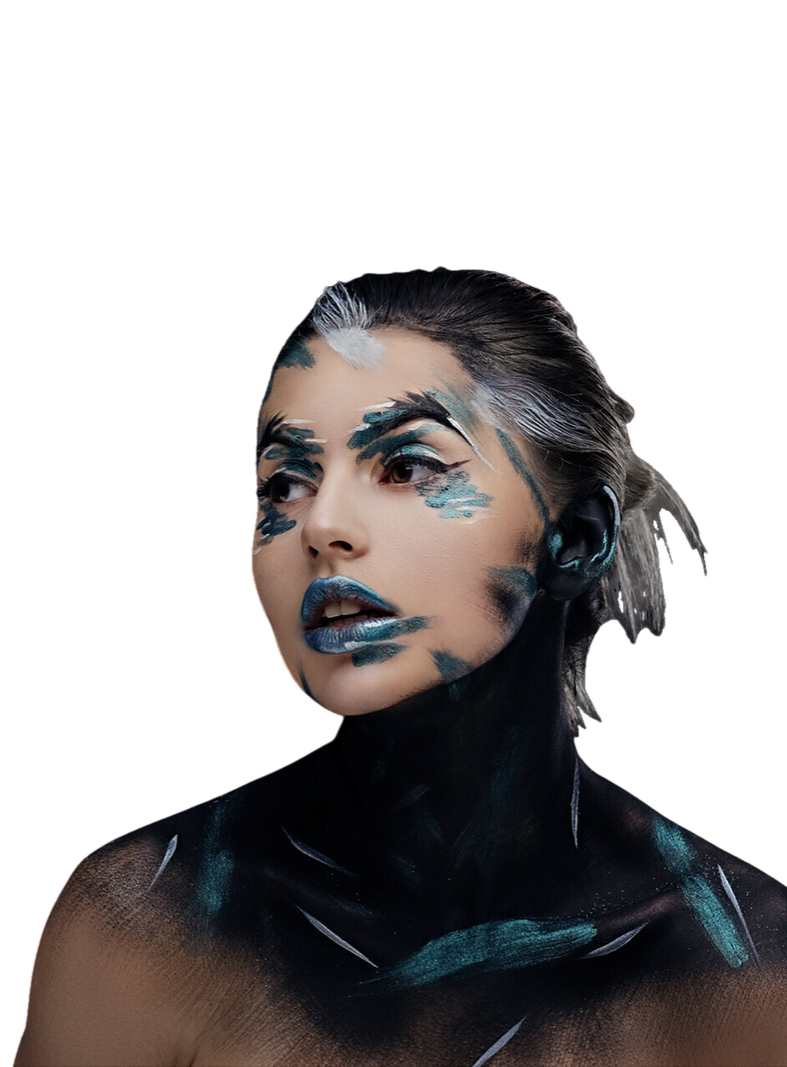
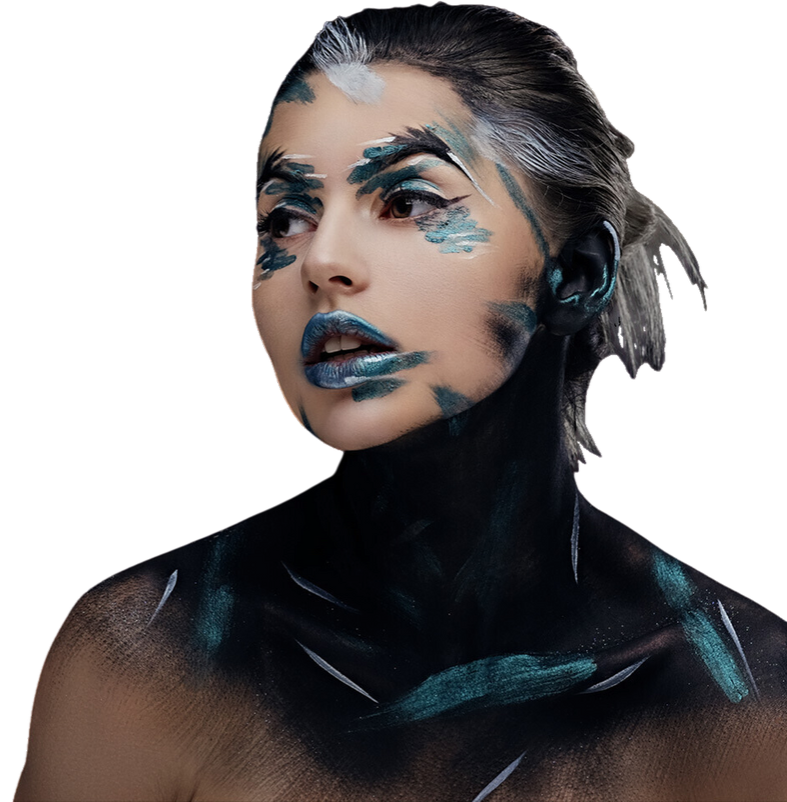
Update Home Page

diff --git a/css/style.css b/css/style.css
@@ -199,11 +199,10 @@ header .menu-bar {
 .landing .container {
   display: flex;
   justify-content: center;
-  padding-top: 100px;
+  padding-top: 85px;
 }
 
 .landing .text-content {
-  width: 55%;
   position: relative;
   z-index: 2;
 }
@@ -326,22 +325,14 @@ header .menu-bar {
   margin: 0;
 }
 
-.landing .image-content {
-  width: 45%;
-  display: flex;
-  justify-content: center;
-  align-items: center;
-  margin-bottom: 20px;
-  position: relative;
-  z-index: 2;
+.landing .image-content img {
+  width: 145%;
 }
 
-.landing .image-content img {
-  width: 650px;
-  bottom: 230px;
-  right: -130px;
-  position: relative;
-  z-index: 2;
+@media (max-width: 992px) {
+  .landing .text-content h1 {
+    font-size: 45px;
+  }
 }
 
 @media (max-width: 768px) {
@@ -355,7 +346,7 @@ header .menu-bar {
   }
 
   .landing .text-content h1 {
-    font-size: 45px;
+    font-size: 35px;
   }
 
   .landing .text-content .main-title::before {
